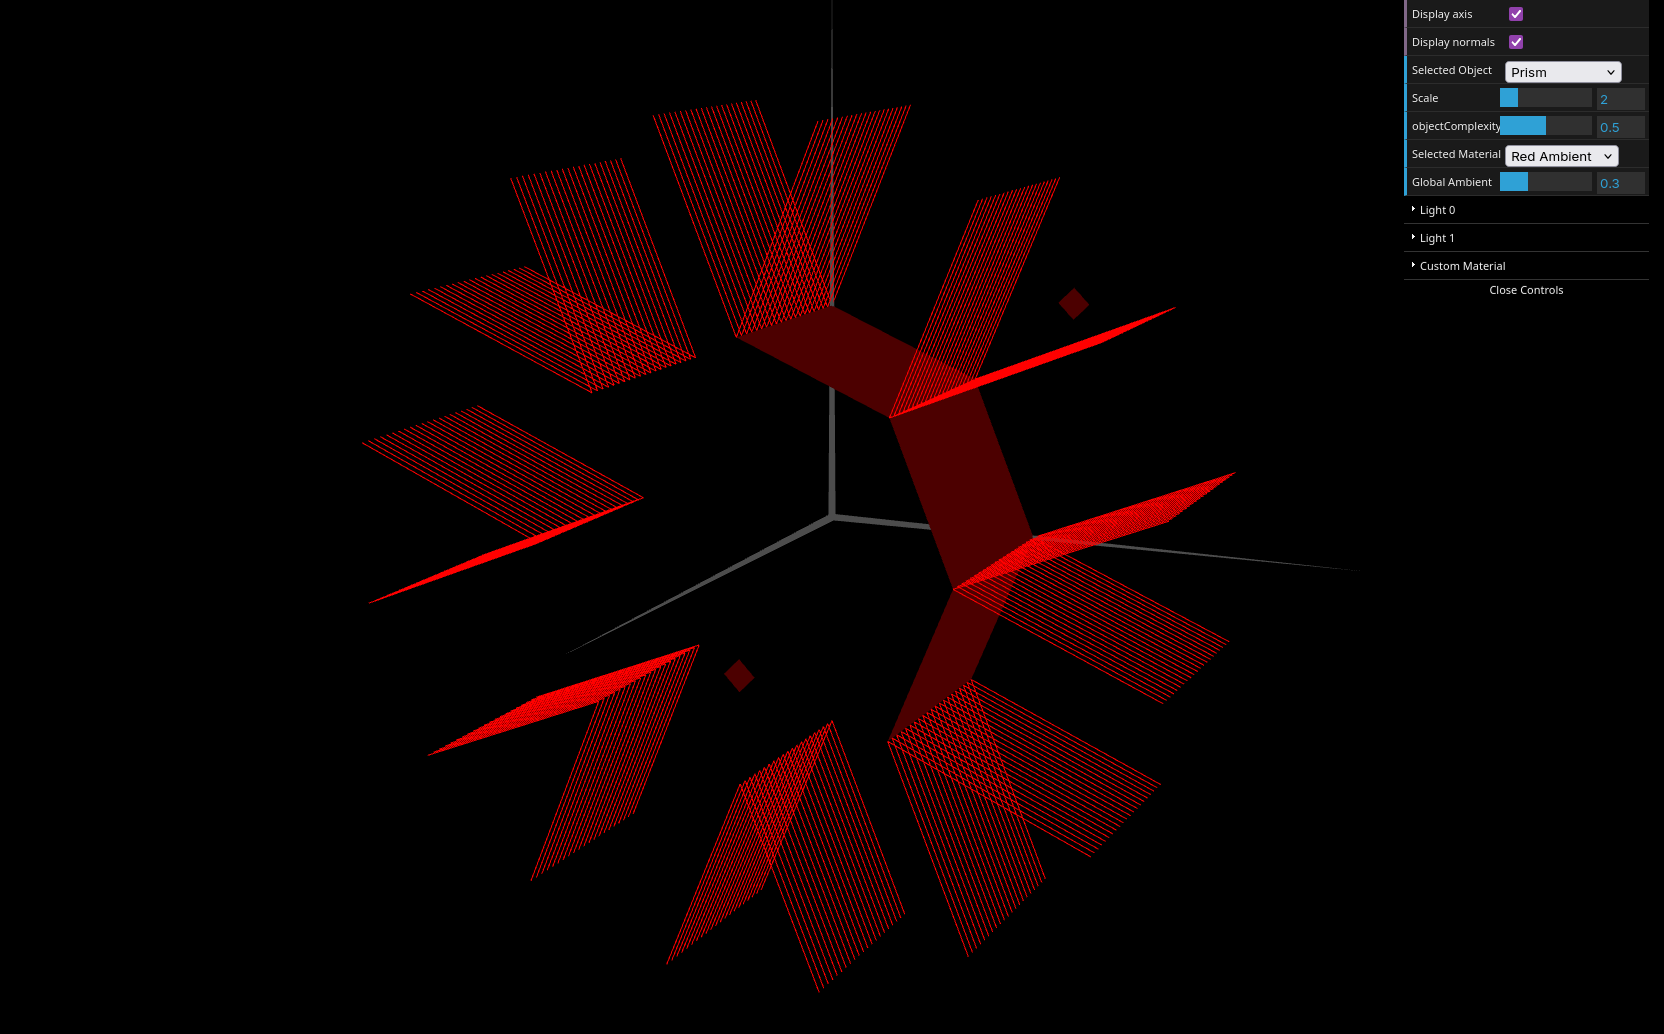
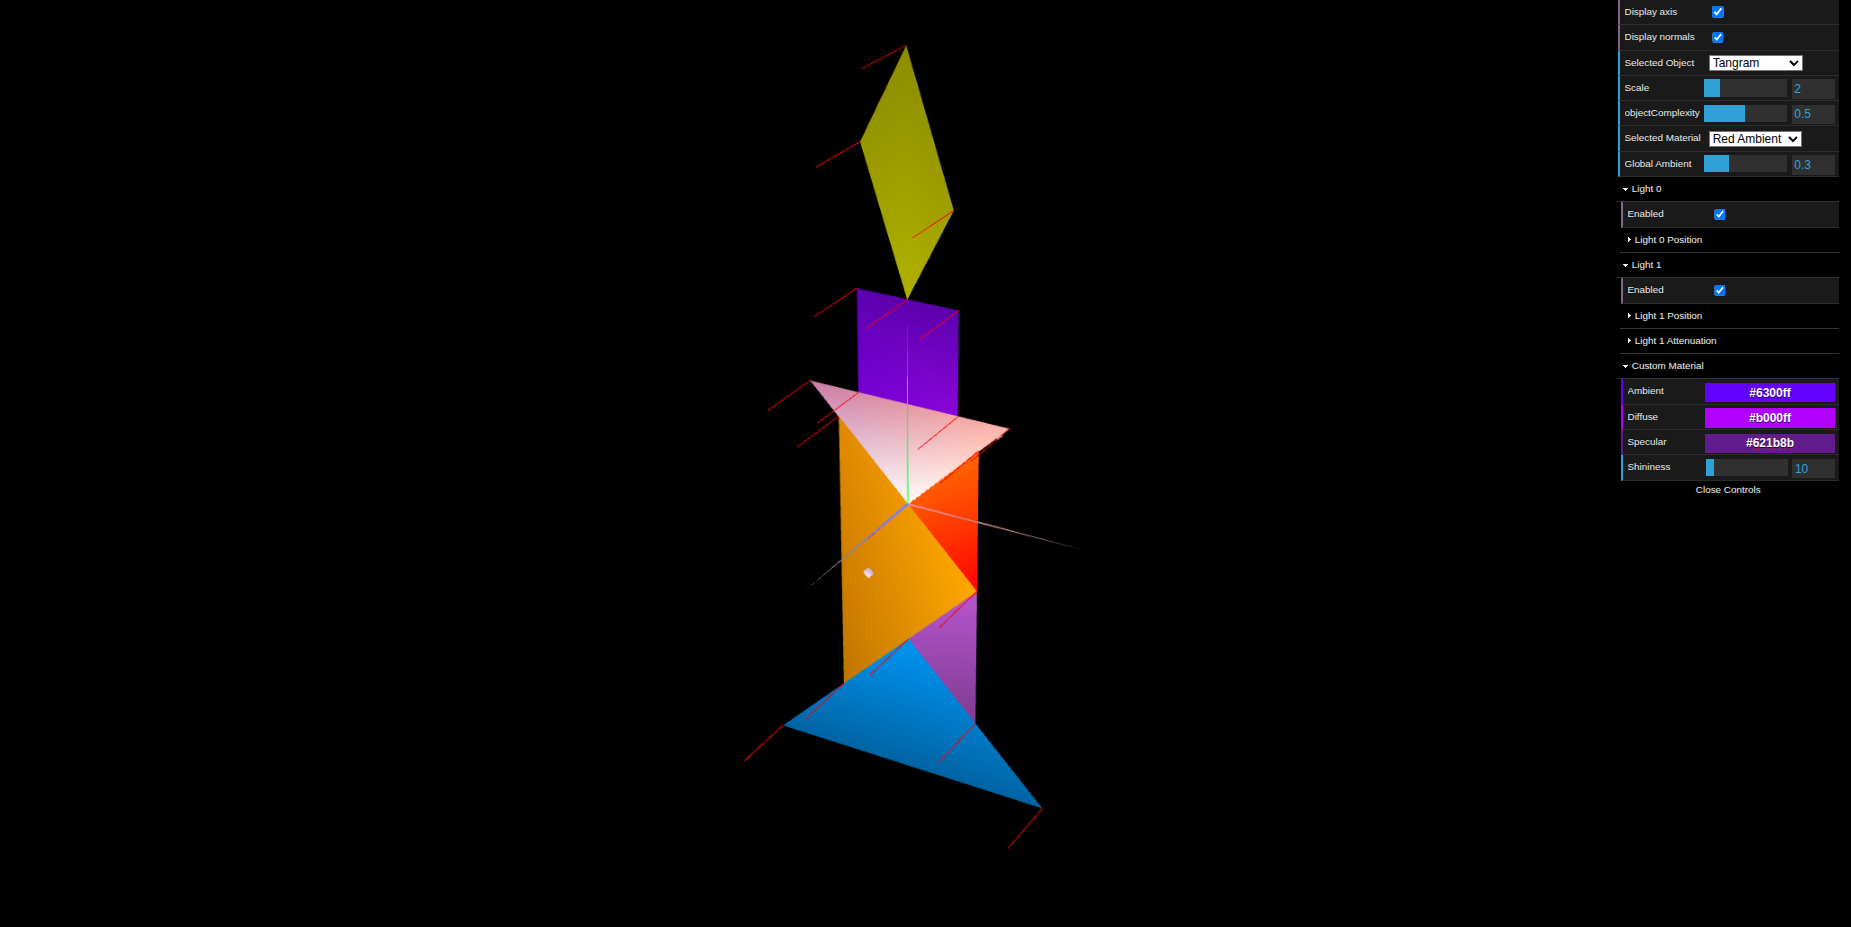
added MyCylinder class with smoother lightning

diff --git a/tp3/MyScene.js b/tp3/MyScene.js
@@ -10,6 +10,7 @@ import { MyTriangle } from "./MyTriangle.js";
 import { MyTriangleBig } from "./MyTriangleBig.js";
 import { MyTriangleSmall } from "./MyTriangleSmall.js";
 import { MyPrism } from "./MyPrism.js";
+import { MyCylinder } from "./MyCylinder.js";
 
 /**
 * MyScene
@@ -38,7 +39,8 @@ export class MyScene extends CGFscene {
 
         //Initialize scene objects
         this.axis = new CGFaxis(this);
-        this.prism = new MyPrism(this, 8, 20);
+        this.prism = new MyPrism(this, 8, 10);
+        this.cylinder = new MyCylinder(this, 8, 20);
         this.plane = new MyPlane(this, 5);
         this.cone = new MyCone(this, 3, 1);
         this.pyramid = new MyPyramid(this, 3, 1);
@@ -51,10 +53,10 @@ export class MyScene extends CGFscene {
         this.triangleSmall = new MyTriangleSmall(this);
         
         
-        this.objects = [this.prism, this.pyramid, this.cone, this.plane, this.tangram, this.unitCube, this.diamond, this.parallelogram, this.triangle, this.triangleBig, this.triangleSmall];
+        this.objects = [this.prism, this.cylinder, this.pyramid, this.cone, this.plane, this.tangram, this.unitCube, this.diamond, this.parallelogram, this.triangle, this.triangleBig, this.triangleSmall];
 
         // Labels and ID's for object selection on MyInterface
-        this.objectIDs = { 'Prism': 0 , 'Pyramid': 1, 'Cone': 2, 'Plane': 3, 'Tangram': 4, 'UnitCube': 5, 'Diamond': 6, 'Parallelogram': 7, 'Triangle': 8, 'TriangleBig': 9, 'TriangleSmall': 10};
+        this.objectIDs = { 'Prism': 0 , 'Cylinder': 1, 'Pyramid': 2, 'Cone': 3, 'Plane': 4, 'Tangram': 5, 'UnitCube': 6, 'Diamond': 7, 'Parallelogram': 8, 'Triangle': 9, 'TriangleBig': 10, 'TriangleSmall': 11};
 
         //Other variables connected to MyInterface
         this.selectedObject = 0;

diff --git a/tp3/MyCylinder.js b/tp3/MyCylinder.js
@@ -1,0 +1,58 @@
+import { CGFobject } from '../lib/CGF.js';
+/**
+ * MyPrism
+ * @constructor
+ * @param scene - Reference to MyScene object
+ * @param slices - number of divisions around the Y axis
+ */
+export class MyCylinder extends CGFobject {
+    constructor(scene, slices, stacks) {
+        super(scene);
+        this.slices = slices;
+        this.stacks = stacks;
+        this.initBuffers();
+    }
+    initBuffers() {
+        this.vertices = [];
+        this.indices = [];
+        this.normals = [];
+
+        var alphaAng = 2 * Math.PI / this.slices;
+        var stackStep = 1.0 / this.stacks;
+
+        for (var j = 0; j <= this.stacks; j++) {
+            var z = j * stackStep;
+            for (var i = 0; i <= this.slices; i++) {
+                var ang = i * alphaAng;
+                var x = Math.cos(ang);
+                var y = -Math.sin(ang);
+                this.vertices.push(x, y, z);
+
+                this.normals.push(x, y, 0);
+            }
+        }
+
+        for (var j = 0; j < this.stacks; j++) {
+            for (var i = 0; i < this.slices; i++) {
+                var current = j * (this.slices + 1) + i;
+                var next = current + this.slices + 1;
+
+                this.indices.push(current, next, next + 1);
+                this.indices.push(current, next + 1, current + 1);
+            }
+        }
+
+
+        //The defined indices (and corresponding vertices)
+        //will be read in groups of three to draw triangles
+        this.primitiveType = this.scene.gl.TRIANGLES;
+        this.initGLBuffers();
+    }
+
+    updateBuffers(complexity) {
+        this.slices = 3 + Math.round(9 * complexity);
+
+        this.initBuffers();
+        this.initNormalVizBuffers();
+    }
+}
